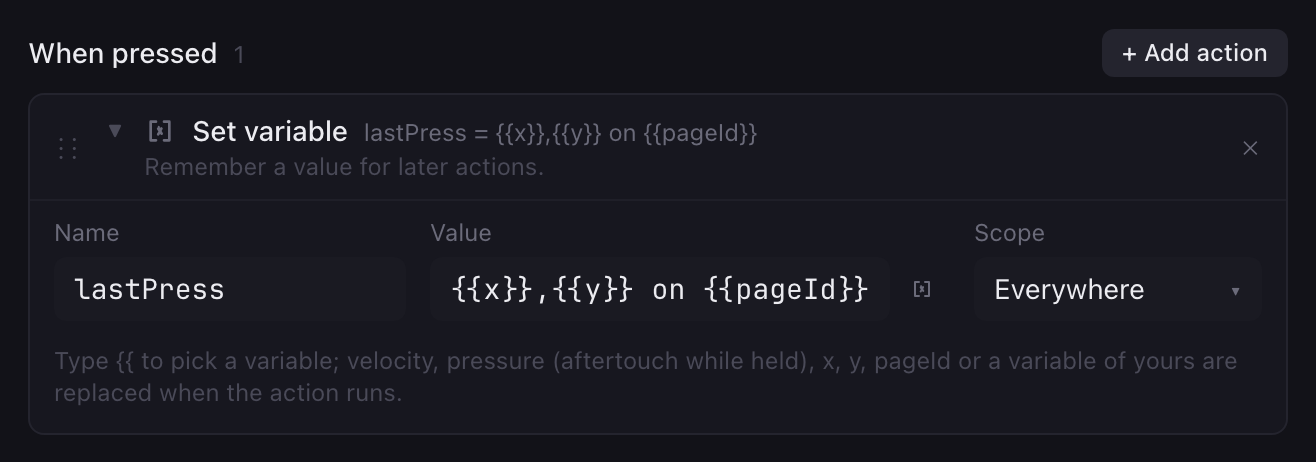
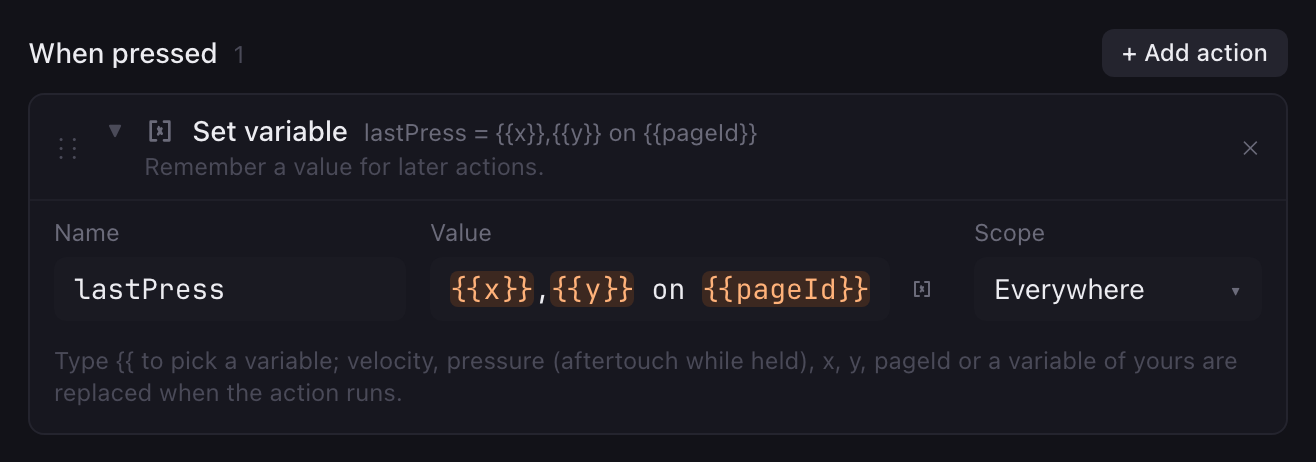
Harness: keep the fixtures in step with the app's pad specs
PadSpec gained rows and led, which the Launchpad X fixture never set, so the
grid placed every pad with a NaN row span and clicks landed on the wrong cell.
The pitch strip is marked centred, and the two action screenshots show the new
placeholder and JSON highlighting.

Changed region(s): [[0.5296, 0.5758, 0.6854, 0.6667], [0.3427, 0.5758, 0.4985, 0.6667]]

diff --git a/scripts/screenshots/mock/fixtures.ts b/scripts/screenshots/mock/fixtures.ts
@@ -46,10 +46,10 @@ export function layoutFor(model: LaunchpadModel): Layout {
   for (let y = 0; y < 9; y++) {
     for (let x = 0; x < 9; x++) {
       const note = (y + 1) * 10 + x + 1;
-      if (x === 8 && y === 8) pads.push({ x, y, shape: "logo", region: "other", label: null, note: 99, cc: false });
-      else if (y === 8) pads.push({ x, y, shape: "round", region: "top", label: X_TOP[x], note, cc: true });
-      else if (x === 8) pads.push({ x, y, shape: "round", region: "right", label: X_RIGHT[7 - y], note, cc: true });
-      else pads.push({ x, y, shape: "pad", region: "grid", label: null, note, cc: false });
+      if (x === 8 && y === 8) pads.push({ x, y, shape: "logo", region: "other", label: null, note: 99, cc: false, led: "none", rows: 1 });
+      else if (y === 8) pads.push({ x, y, shape: "round", region: "top", label: X_TOP[x], note, cc: true, led: "rgb", rows: 1 });
+      else if (x === 8) pads.push({ x, y, shape: "round", region: "right", label: X_RIGHT[7 - y], note, cc: true, led: "rgb", rows: 1 });
+      else pads.push({ x, y, shape: "pad", region: "grid", label: null, note, cc: false, led: "rgb", rows: 1 });
     }
   }
   return {
@@ -73,15 +73,16 @@ function launchkeyLayout(): Layout {
   const pads: PadSpec[] = [];
   // A control without a note sends nothing (the printed keyboard functions); the app draws
   // those greyed out, so everything that can hold a button needs its real note or CC here.
-  const at = (x: number, y: number, shape: PadShape, region: PadRegion, label: string | null, rows = 1, led: PadSpec["led"] = "none", note: number | null = null, cc = false) =>
-    pads.push({ x, y, shape, region, label, note, cc, led, rows });
+  const at = (x: number, y: number, shape: PadShape, region: PadRegion, label: string | null, rows = 1, led: PadSpec["led"] = "none", note: number | null = null, cc = false, centred = false) =>
+    pads.push({ x, y, shape, region, label, note, cc, led, rows, centred });
   const blackAfter = (x: number) => [0, 1, 3, 4, 5].includes(x % 7) && x + 1 < 15;
   const WHITE_OFFSETS = [0, 2, 4, 5, 7, 9, 11];
   const whiteNote = (i: number) => 48 + 12 * Math.floor(i / 7) + WHITE_OFFSETS[i % 7];
 
   for (let y = 6; y >= 0; y--) {
     for (let x = 0; x < 15; x++) {
-      if (y === 6 && x === 0) at(x, y, "strip", "left", "Pitch", 5);
+      // The pitch strip springs back to the middle: drawn as a bar, not a fill.
+      if (y === 6 && x === 0) at(x, y, "strip", "left", "Pitch", 5, "none", null, false, true);
       else if (y === 6 && x === 1) at(x, y, "strip", "left", "Modulation", 5);
       else if ((x === 0 || x === 1) && y >= 2 && y <= 5) continue; // covered by the strips
       else if (x === 2 && y === 6) at(x, y, "rect", "left", "Shift", 1, "none", 108, true);
